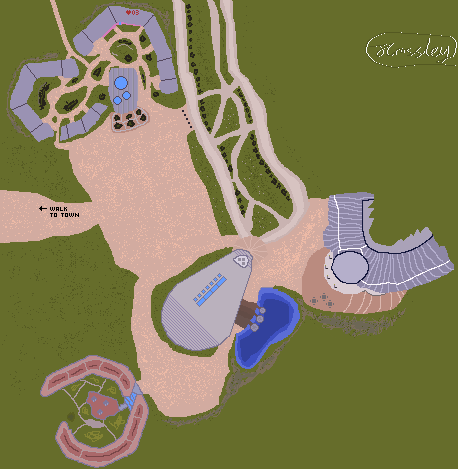
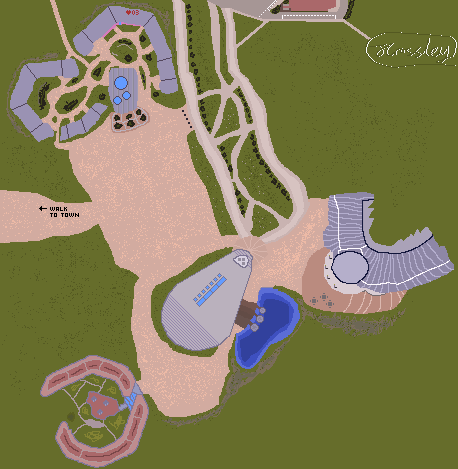
Fixed the rescaling of UI, changed map slightly, added endscreen background.

Changed region(s): [[0.4585, 0.0, 0.7948, 0.0896], [0.7642, 0.0597, 0.8253, 0.0896]]

diff --git a/core/src/com/mygdx/hustle/Score.java b/core/src/com/mygdx/hustle/Score.java
@@ -1,9 +1,11 @@
 package com.mygdx.hustle;
 
 import com.badlogic.gdx.Gdx;
+import com.badlogic.gdx.graphics.Texture;
 import com.badlogic.gdx.graphics.g2d.BitmapFont;
 import com.badlogic.gdx.graphics.g2d.SpriteBatch;
 import com.badlogic.gdx.utils.ScreenUtils;
+import com.badlogic.gdx.utils.viewport.ExtendViewport;
 
 public class Score {
     private int studyCounter;
@@ -23,7 +25,7 @@ public class Score {
         return eatCounter++;
     }
 
-    public void renderScores(){
+    public void renderScores(ExtendViewport viewport){
         scoreBatch = new SpriteBatch();
         font = new BitmapFont();
         // Begin drawing with the sprite batch
@@ -31,17 +33,17 @@ public class Score {
 
         // Set font color and scale
         font.setColor(1, 1, 1, 1); // White color
-        font.getData().setScale(1.5f); // Scale factor 1.5
+        font.getData().setScale((float) (viewport.getScreenWidth() + viewport.getScreenHeight()) /750); // Scale factor
 
-        // Draw the day number text
-        font.draw(scoreBatch, "Times Studied: " + studyCounter, 50, 240);
-        font.draw(scoreBatch, "Times Eaten: "+ eatCounter, 50, 280);
-        font.draw(scoreBatch, "Times had Fun: "+ recreationCounter, 50, 320);
+        float factor= (float) viewport.getScreenHeight() /18;
+        font.draw(scoreBatch, "Times Studied: " + studyCounter, 25, (float) (viewport.getScreenHeight())-factor);
+        font.draw(scoreBatch, "Times Eaten: "+ eatCounter, 25, (float) (viewport.getScreenHeight())-2*factor);
+        font.draw(scoreBatch, "Times had Fun: "+ recreationCounter, 25, (float) (viewport.getScreenHeight())-3*factor);
 
         scoreBatch.end();
     }
 
-    public void renderFinalScores(){
+    public void renderFinalScores(ExtendViewport viewport){
         ScreenUtils.clear(0, 0.5f, 0, 1);
         scoreBatch = new SpriteBatch();
         font = new BitmapFont();
@@ -50,12 +52,16 @@ public class Score {
 
         // Set font color and scale
         font.setColor(1, 1, 1, 1); // White color
-        font.getData().setScale(2f); // Scale factor 1.5
+        font.getData().setScale((float) (viewport.getScreenWidth() + viewport.getScreenHeight()) /400);
 
-        // Draw the day number text
-        font.draw(scoreBatch, "Times Studied: " + studyCounter, (float) Gdx.graphics.getWidth() /2, (float) Gdx.graphics.getHeight() /2);
-        font.draw(scoreBatch, "Times Eaten: "+ eatCounter, (float) Gdx.graphics.getWidth() /2, (float) (Gdx.graphics.getHeight() /2)-50);
-        font.draw(scoreBatch, "Times had Fun: "+ recreationCounter, (float) Gdx.graphics.getWidth() /2, (float) (Gdx.graphics.getHeight() /2)-100);
+        Texture background= new Texture("end.png");
+        scoreBatch.draw(background, 0, 0, Gdx.graphics.getWidth(), Gdx.graphics.getHeight());
+
+        float factorX= (float) viewport.getScreenWidth() /4;
+        float factorY= (float) viewport.getScreenHeight() /9;
+        font.draw(scoreBatch, "Times Studied: " + studyCounter, (((float)viewport.getScreenWidth()/2)-factorX), (float) (viewport.getScreenHeight()/2)+factorY);
+        font.draw(scoreBatch, "Times Eaten: "+ eatCounter, (((float)viewport.getScreenWidth()/2)-factorX), (float) (viewport.getScreenHeight()/2));
+        font.draw(scoreBatch, "Times had Fun: "+ recreationCounter, (((float)viewport.getScreenWidth()/2)-factorX), (float) (viewport.getScreenHeight()/2)-factorY);
         scoreBatch.end();
     }
 

diff --git a/core/src/com/mygdx/hustle/GameScreen.java b/core/src/com/mygdx/hustle/GameScreen.java
@@ -93,21 +93,21 @@ public class GameScreen implements Screen{
 
             //set font color and scale
             font.setColor(1, 1, 1, 1); // White color
-            font.getData().setScale(1.5f); // Scale factor 1.5
+            font.getData().setScale((float) (viewport.getScreenWidth() + viewport.getScreenHeight()) /1000);
 
 
             //draw interact text
             if (accommodationBuilding.checkOverlaps(player)) {
                 textBatch = new SpriteBatch();
                 textBatch.begin();
-                font.draw(textBatch, "Go to sleep?", (float) Gdx.graphics.getWidth() / 2 + 50, (float) Gdx.graphics.getHeight() / 2 + 50);
+                font.draw(textBatch, "Go to sleep?", (float) viewport.getScreenWidth() / 2+75, (float) viewport.getScreenHeight() / 2+50);
                 textBatch.end();
             }
 
             if (recreationBuilding.checkOverlaps(player) && energy.getCurrentEnergy() > 10) {
                 textBatch = new SpriteBatch();
                 textBatch.begin();
-                font.draw(textBatch, "Do recreational activity?", (float) Gdx.graphics.getWidth() / 2 + 50, (float) Gdx.graphics.getHeight() / 2 + 50);
+                font.draw(textBatch, "Do recreational activity?", (float) viewport.getScreenWidth() / 2+75, (float) viewport.getScreenHeight() / 2+50);
                 textBatch.end();
 
             }
@@ -115,14 +115,14 @@ public class GameScreen implements Screen{
             if (studyBuilding.checkOverlaps(player) && energy.getCurrentEnergy() > 25) {
                 textBatch = new SpriteBatch();
                 textBatch.begin();
-                font.draw(textBatch, "Study for a bit?", (float) Gdx.graphics.getWidth() / 2 + 50, (float) Gdx.graphics.getHeight() / 2 + 50);
+                font.draw(textBatch, "Study for a bit?", (float) viewport.getScreenWidth() / 2+75, (float) viewport.getScreenHeight() / 2+50);
                 textBatch.end();
             }
 
             if (eatBuilding.checkOverlaps(player)) {
                 textBatch = new SpriteBatch();
                 textBatch.begin();
-                font.draw(textBatch, "Eat a meal?", (float) Gdx.graphics.getWidth() / 2 + 50, (float) Gdx.graphics.getHeight() / 2 + 50);
+                font.draw(textBatch, "Eat a meal?", (float) viewport.getScreenWidth() / 2+75, (float) viewport.getScreenHeight() / 2+50);
                 textBatch.end();
             }
 
@@ -155,7 +155,7 @@ public class GameScreen implements Screen{
                 }
             }
             energy.drawBar(shapeRenderer);
-            score.renderScores();
+            score.renderScores(viewport);
 
[1 lines of base64/hex data omitted]
 

diff --git a/core/src/com/mygdx/hustle/DayTimer.java b/core/src/com/mygdx/hustle/DayTimer.java
@@ -12,9 +12,11 @@ public class DayTimer {
     private SpriteBatch textBatch;
     private BitmapFont font;
     private boolean endOfDay;
+    private ExtendViewport viewport;
 
 
     public void update(float deltaTime, Energy energy, final HeslingtonHustle heslingtonHustle, final ExtendViewport view, final OrthographicCamera cam, final Score score) {
+        viewport=view;
         endOfDay = false;
         //check if game is over
         if (currentDay>7) {
@@ -64,10 +66,10 @@ public class DayTimer {
 
         // Set font color and scale
         font.setColor(1, 1, 1, 1); // White color
-        font.getData().setScale(1.5f); // Scale factor 1.5
+        font.getData().setScale((float) (viewport.getScreenWidth() + viewport.getScreenHeight()) /1000); // Scale factor 1.5
 
         // Draw the day number text
-        font.draw(textBatch, "Day " + currentDay, 50, 150);
+        font.draw(textBatch, "Day " + currentDay, (float) viewport.getScreenWidth() /80, (float) viewport.getScreenHeight() /7);
 
         textBatch.end();
     }
@@ -80,10 +82,10 @@ public class DayTimer {
 
         // Set font color and scale
         font.setColor(1, 1, 1, 1); // White color
-        font.getData().setScale(1.5f); // Scale factor 1.5
+        font.getData().setScale((float) (viewport.getScreenWidth() + viewport.getScreenHeight()) /1000); // Scale factor 1.5
 
         // Draw the day number text
-        font.draw(textBatch, "That's all you can do today! You should get to sleep now.", 50, 130);
+        font.draw(textBatch, "That's all you can do today! You should get to sleep now.", 50, (float) viewport.getScreenHeight() /18);
 
         textBatch.end();
     }

diff --git a/core/src/com/mygdx/hustle/EndScreen.java b/core/src/com/mygdx/hustle/EndScreen.java
@@ -2,20 +2,15 @@ package com.mygdx.hustle;
 
 import com.badlogic.gdx.Gdx;
 import com.badlogic.gdx.Screen;
-import com.badlogic.gdx.graphics.Camera;
 import com.badlogic.gdx.graphics.GL20;
 import com.badlogic.gdx.graphics.OrthographicCamera;
-import com.badlogic.gdx.graphics.g2d.BitmapFont;
-import com.badlogic.gdx.graphics.g2d.SpriteBatch;
-import com.badlogic.gdx.scenes.scene2d.Actor;
 import com.badlogic.gdx.scenes.scene2d.Stage;
 import com.badlogic.gdx.utils.viewport.ExtendViewport;
-import com.badlogic.gdx.utils.viewport.Viewport;
 
 public class EndScreen implements Screen {
     private final HeslingtonHustle parent;
-    private final Viewport viewport;
-    private final Camera camera;
+    private final ExtendViewport viewport;
+    private final OrthographicCamera camera;
     private final Score score;
 
     public EndScreen(HeslingtonHustle heslingtonHustle, ExtendViewport view, OrthographicCamera cam, Score scor) {
@@ -34,9 +29,12 @@ public class EndScreen implements Screen {
     public void render(float delta) {
         Gdx.gl.glClear(GL20.GL_COLOR_BUFFER_BIT);
 
+        viewport.update(Gdx.graphics.getWidth(), Gdx.graphics.getHeight(), true);
+        camera.update();
+
         Stage stage = new Stage();
         stage.draw();
-        score.renderFinalScores();
+        score.renderFinalScores(viewport);
     }
 
     @Override

diff --git a/core/src/com/mygdx/hustle/HeslingtonHustle.java b/core/src/com/mygdx/hustle/HeslingtonHustle.java
@@ -11,10 +11,20 @@ public class HeslingtonHustle extends Game {
 
 	@Override
 	public void create() {
-		batch = new SpriteBatch();
-		OrthographicCamera camera = new OrthographicCamera();
-		ExtendViewport viewport = new ExtendViewport(Gdx.graphics.getWidth(), Gdx.graphics.getHeight(), camera);
-		this.setScreen(new MenuScreen(this, viewport, camera));
+		//for testing, change one of the values in the if statement to go straight to the end screen
+		if(1==1) {
+			batch = new SpriteBatch();
+			OrthographicCamera camera = new OrthographicCamera();
+			ExtendViewport viewport = new ExtendViewport(Gdx.graphics.getWidth(), Gdx.graphics.getHeight(), camera);
+			this.setScreen(new MenuScreen(this, viewport, camera));
+		}
+		else {
+			batch = new SpriteBatch();
+			Score scor = new Score();
+			OrthographicCamera camera = new OrthographicCamera();
+			ExtendViewport viewport = new ExtendViewport(Gdx.graphics.getWidth(), Gdx.graphics.getHeight(), camera);
+			this.setScreen(new EndScreen(this, viewport, camera, scor));
+		}
 	}
 
 	@Override

diff --git a/core/src/com/mygdx/hustle/Energy.java b/core/src/com/mygdx/hustle/Energy.java
@@ -59,7 +59,7 @@ public class Energy {
         }
 
         shapeRenderer.rect(x + 1, y + 1, energyBarWidth, height-2); // Draw the energy bar
-
+//TODO energy bar scale when launching game ie resize screen and then press play to recreate.
 
     }
 
